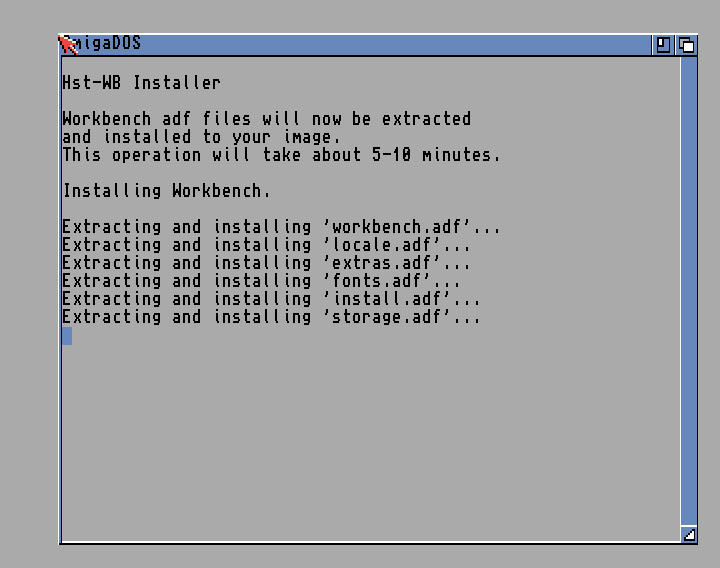
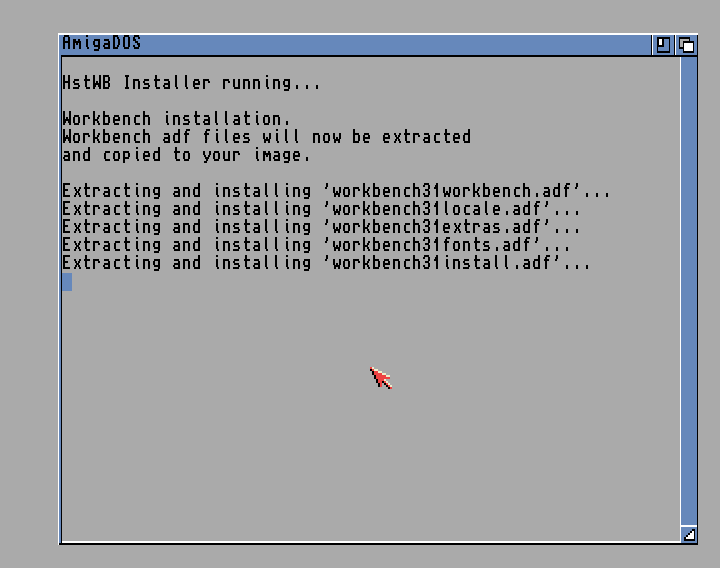
Updated readme with installation, usage description and new screenshots

diff --git a/README.md b/README.md
@@ -72,7 +72,7 @@ HstWB_System.1.0.0.zip:
 
 Packages are kept simple, so they are easy to build and maintain.
 
-## Installation
+## HstWB Installation Process
 
 The installation is done through WinUAE. To enable installing Workbench automatically following scripted process is used:
 
@@ -87,6 +87,77 @@ The installation is done through WinUAE. To enable installing Workbench automati
 * WinUAE is launched and startup sequence executes installation scripts and automatically shuts down, when it's done.
 
 The preinstalled Amiga HDF image is now ready to use in an emulator.
+
+## Requirements
+
+The minimum requirements for running HstWB Installer are:
+
+* Windows 7, 8, 8.1 or 10.
+* Cloanto Amiga Forever installed or dumps of own Workbench adf files and Kickstart rom files located in a directory.
+* WinUAE.
+
+## Installation
+
+Installation is quite easy and can be done one the following ways: 
+
+* Clone git repository.
+* Click 'Download ZIP' and extract files.
+
+## Usage
+
+**Menu using setup script**
+
+First run HstWB Installer Setup script to configure settings. Default settings are used, if settings file "hstwb-installer-settings.ini" doesn't exist. Each time a setting is changed the settings file is updated or auto saved. When choosing Workbench adf or Kickstart rom set, files in configured directories are examined to find valid Workbench adf and Kickstart rom files required for installation process. Select the set that has all files detected. 
+
+Following steps will create a new 8gb image and install Workbench and Kickstart:
+
+1. Double-click 'hstwb-installer-setup.cmd' in Windows Explorer or start 'hstwb-installer-setup.ps1' from powershell to run setup script.
+2. Type 1 and enter to enter select image menu.
+3. Type 2 and enter to enter new image menu.
+4. Type 1 and enter to select 8gb image.
+5. Type "test.hdf" and press enter.
+6. Type 3 and enter to go back to main menu.
+7. Type 2 and enter to enter configure workbench menu.
+8. If Workbench Adf Path is already configured goto step 11.
+9. Type 2 and enter to select change workbench adf path.
+10. Type path to directory with workbench adf files and press enter.
+11. Type 3 and enter to select workbench adf set.
+12. Type 1 to select Cloanto Amiga Forever 2016 workbench adf set or type 2 to select Custom workbench set.
+13. Type 4 and enter to go back to main menu.
+14. Type 3 and enter to enter configure kickstart menu.
+15. If Kickstart Rom Path is already configured goto step 18.
+16. Type 2 and enter to select change kickstart rom path.
+17. Type path to directory with kickstart rom files and press enter.
+18. Type 3 and enter to select kickstart rom set.
+19. Type 1 to select Cloanto Amiga Forever 2016 kickstart rom set or type 2 to select Custom kickstart rom.
+20. Type 4 and enter to go back to main menu.
+21. If WinUAE Path is already configured goto step 21.
+22. Type 5 and enter to enter change winuae menu.
+23. Type 1 and enter to select change winuae path.
+24. Type path to winuae.exe and press enter.
+25. Type 6 and enter run installer, wait for WinUAE to complete installation process.
+26. Press any key to continue.
+27. Type 8 and enter to exit.
+
+**Manual using run script**
+
+The settings file "hstwb-installer-settings.ini" can also be created manually with the following content:
+
+###
+    [Image]
+    HdfImagePath=C:\Users\Public\Documents\Amiga Files\Shared\hdf\test.hdf
+    [Kickstart]
+    InstallKickstart=Yes
+    KickstartRomPath=C:\Users\Public\Documents\Amiga Files\Shared\rom
+    KickstartRomSet=Kickstart Cloanto Amiga Forever 2016
+    [Winuae]
+    WinuaePath=C:\Program Files (x86)\WinUAE\winuae.exe
+    [Workbench]
+    InstallWorkbench=Yes
+    WorkbenchAdfPath=C:\Users\Public\Documents\Amiga Files\Shared\adf
+    WorkbenchAdfSet=Workbench 3.1 Cloanto Amiga Forever 2016
+
+Double-click 'hstwb-installer-run.cmd' in Windows Explorer or start 'hstwb-installer-run.ps1' from powershell to run installer script.
 
 ## Screenshots
 
